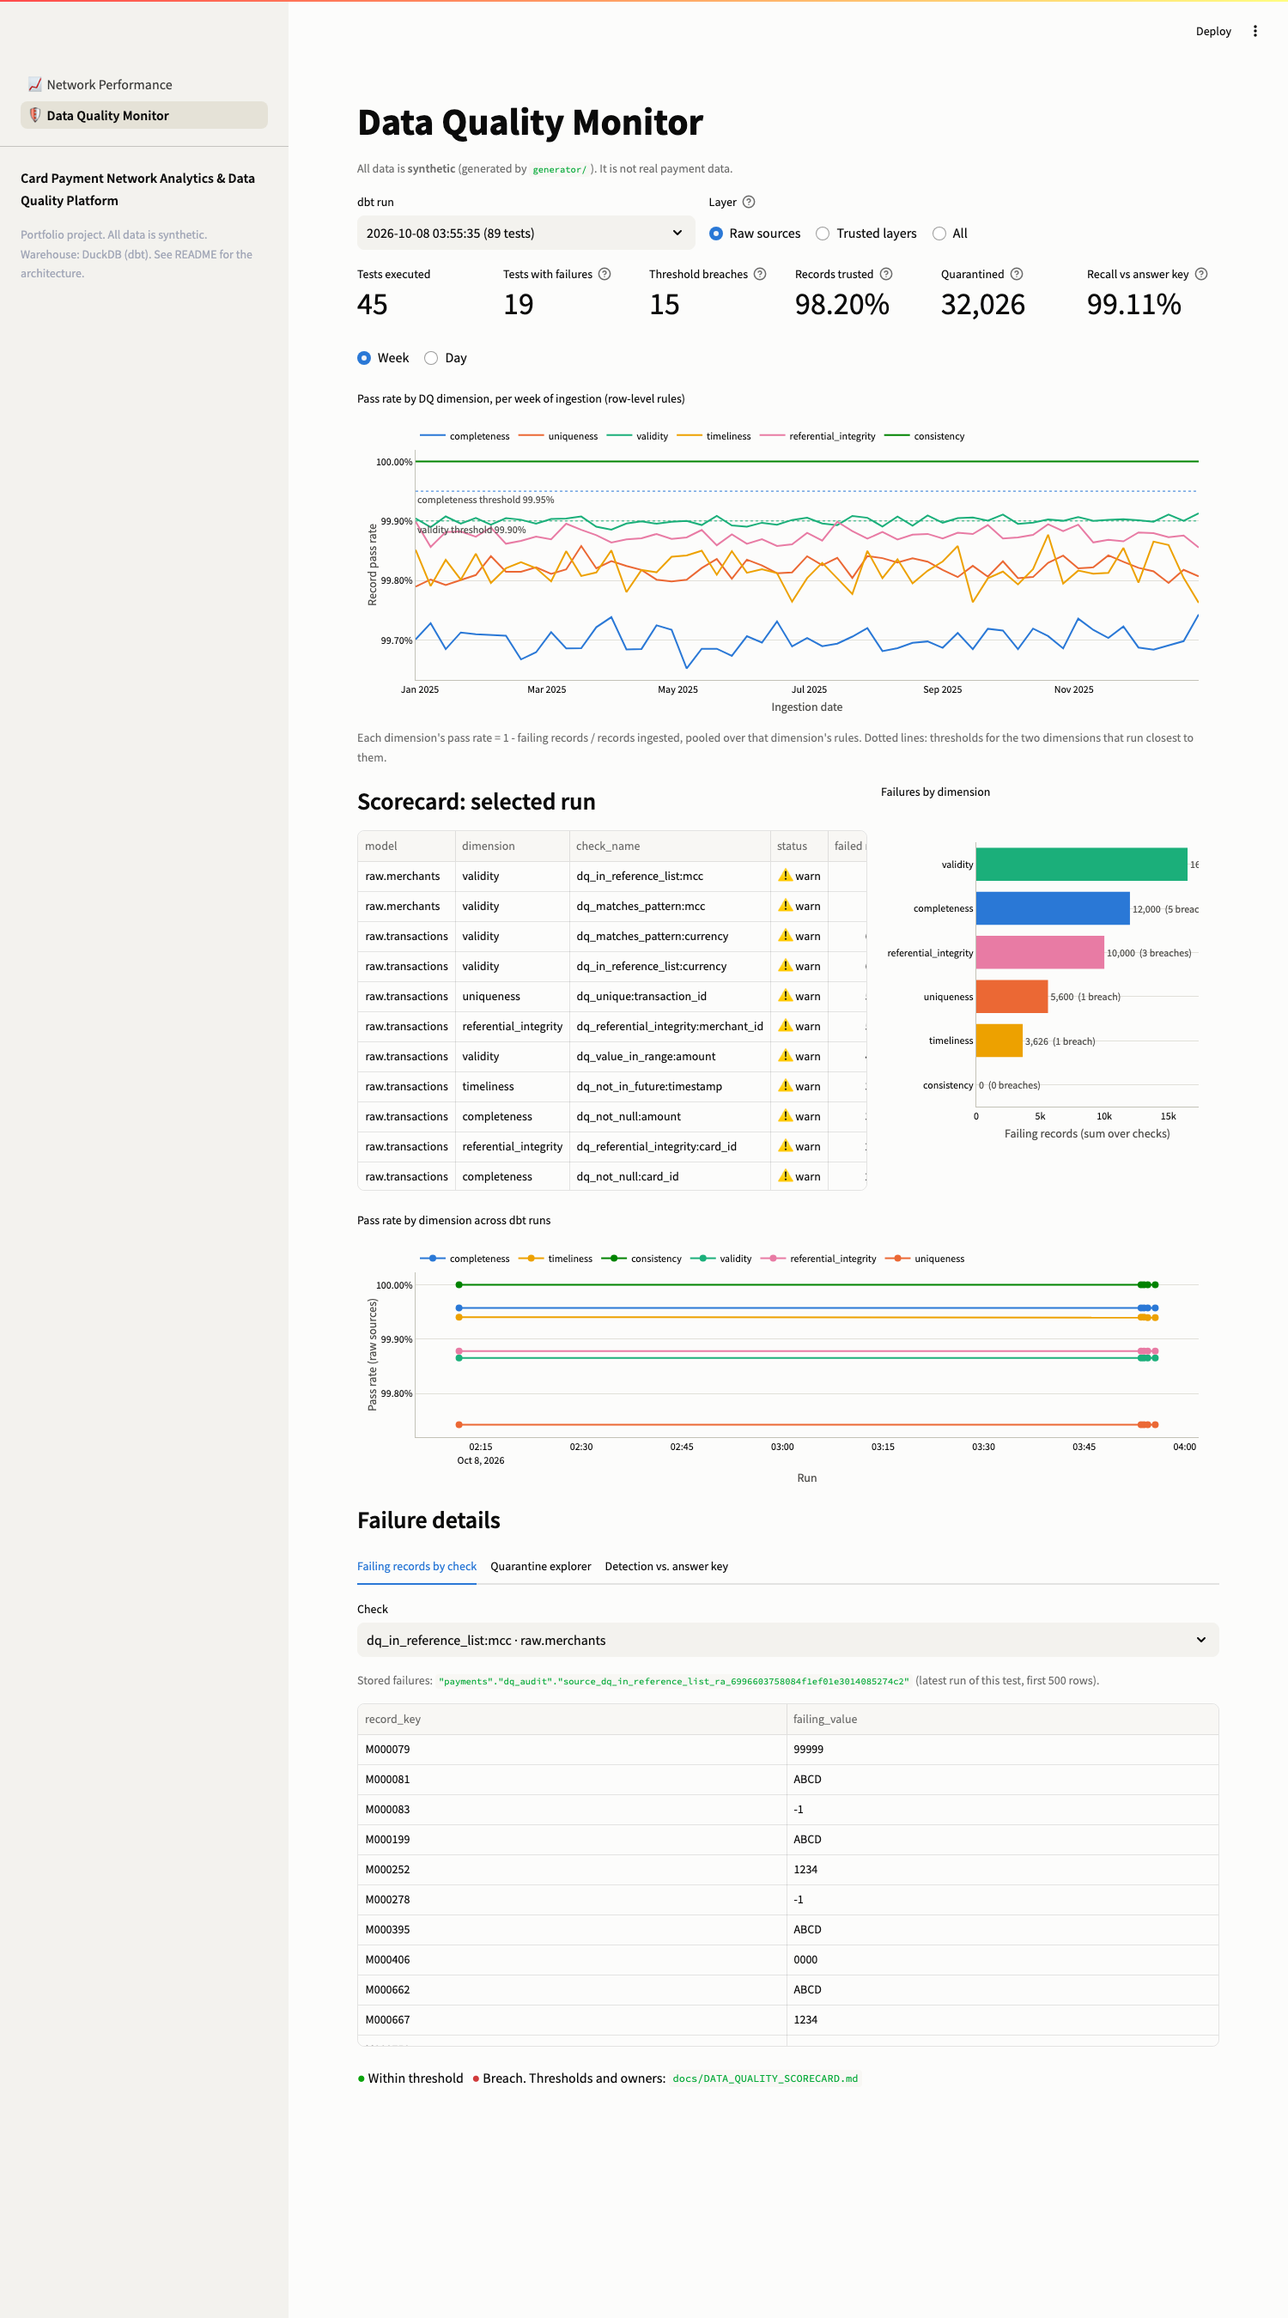
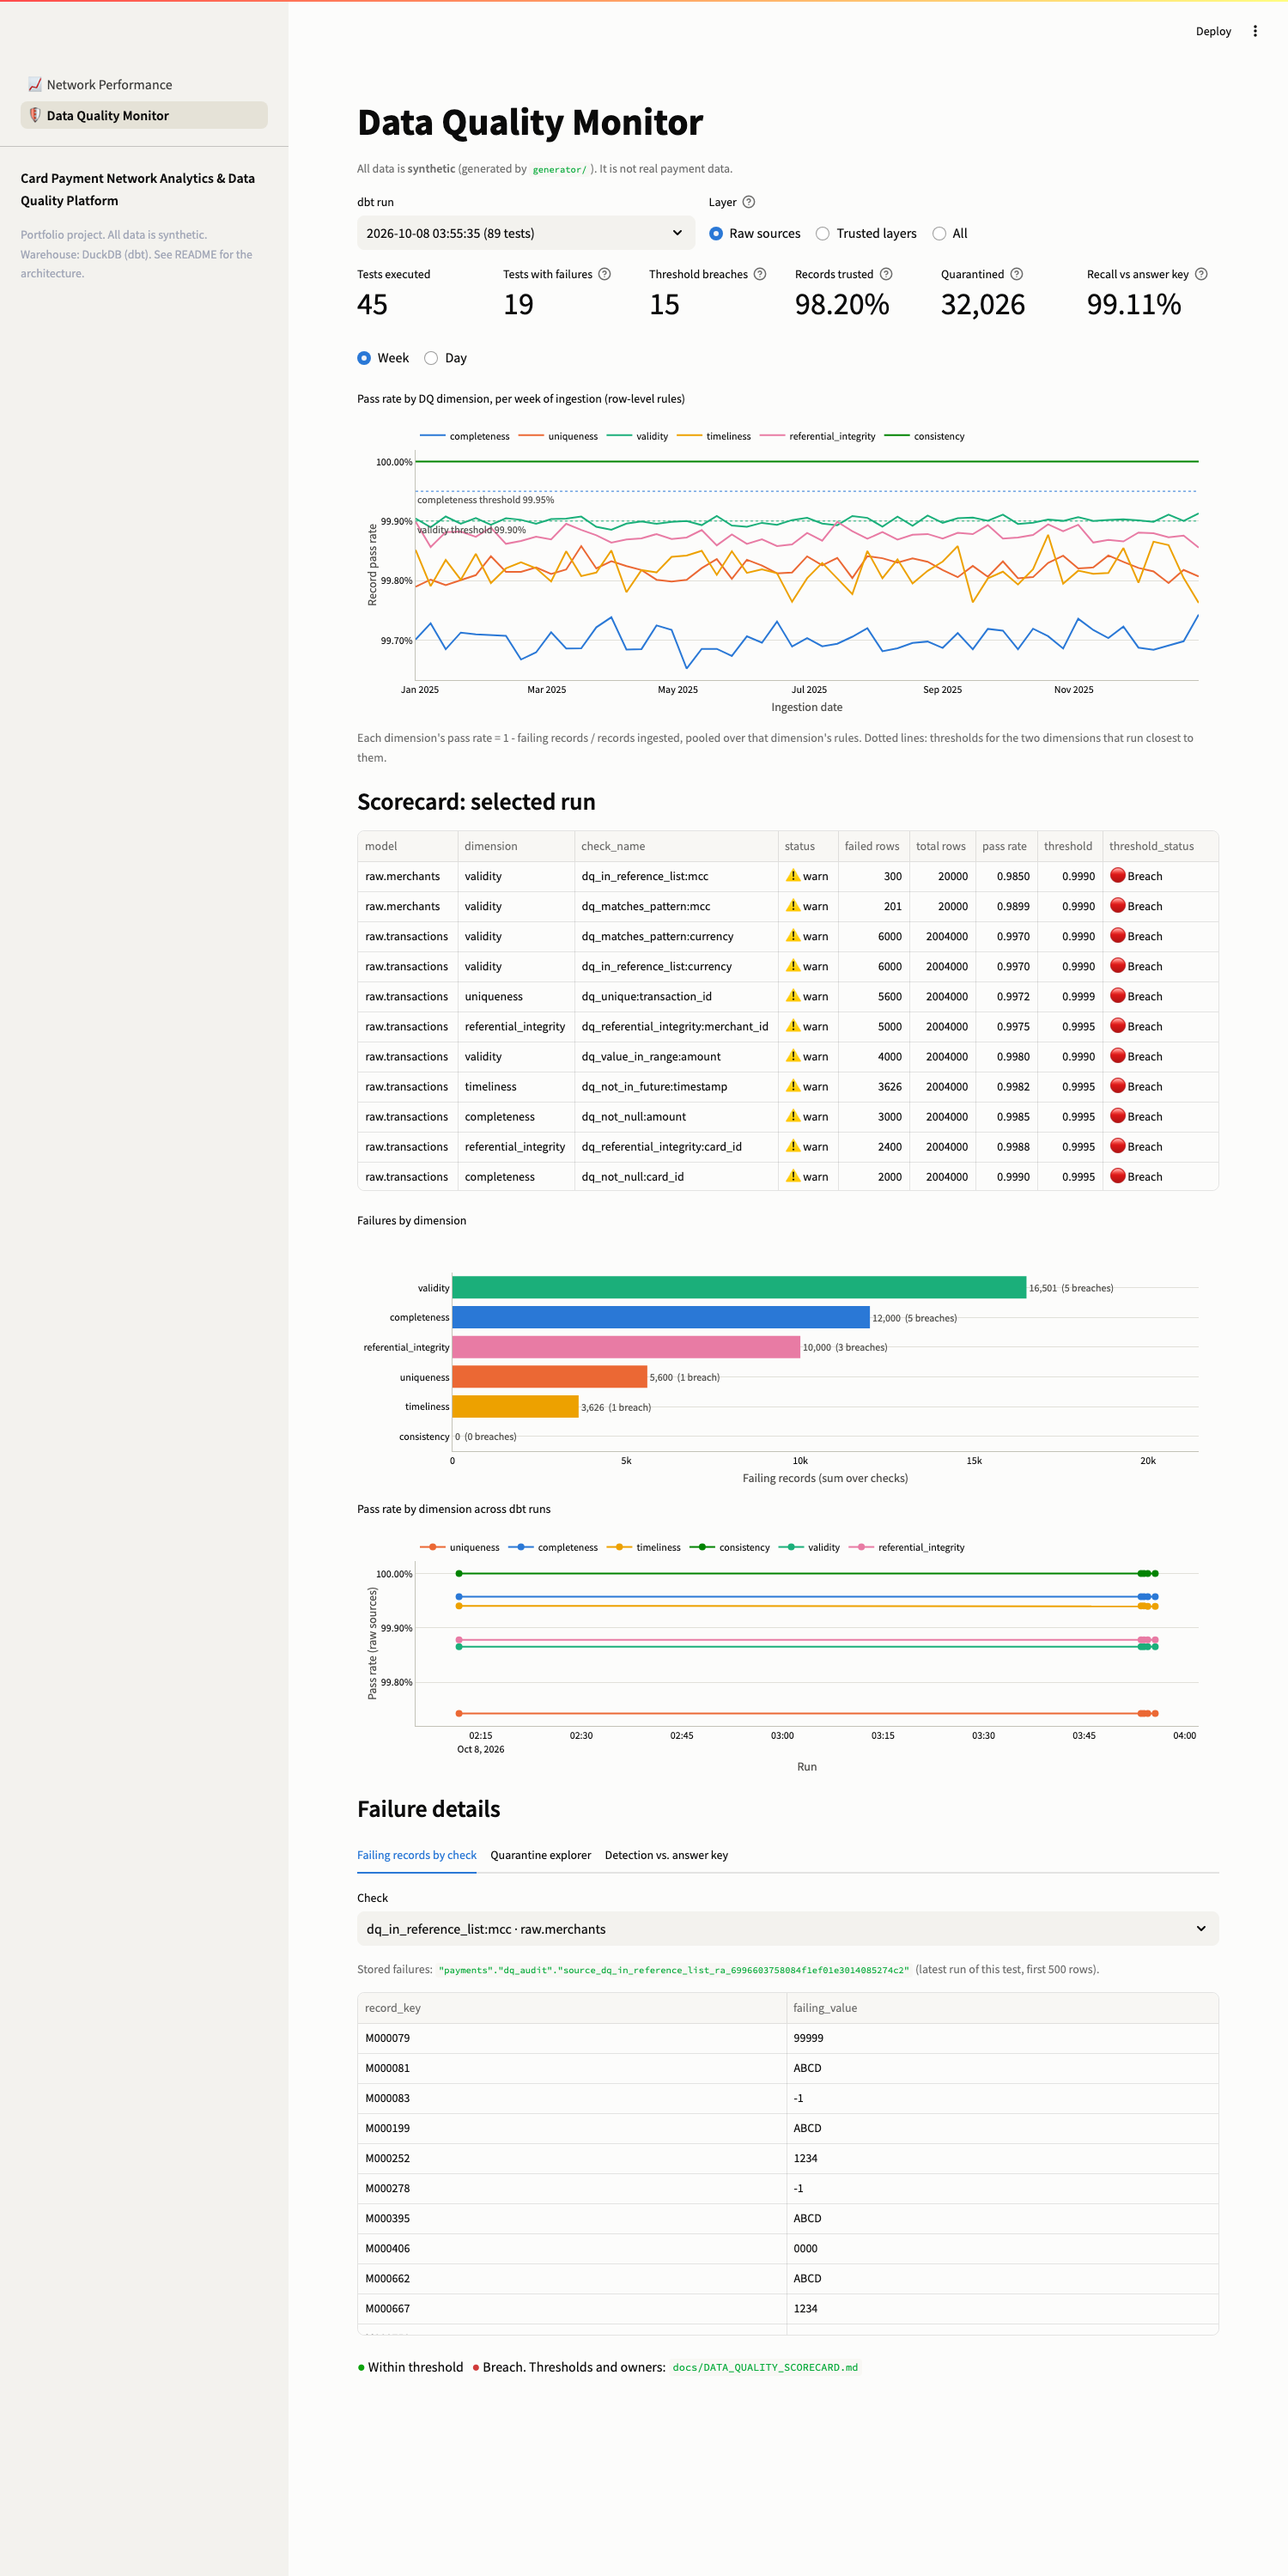
Fix run_all ordering: score DQ before dbt docs generate overwrites run_results
Found by a clean-clone run of run_all.sh. compare_answer_key.py now exits
with a clear message when no dbt test results are present. Also refreshes
dashboard screenshots.

diff --git a/dq/compare_answer_key.py b/dq/compare_answer_key.py
@@ -96,6 +96,11 @@ def main() -> int:
     out.mkdir(parents=True, exist_ok=True)
 
     tests = load_source_tests(Path(args.target))
+    if tests.empty or not (tests.layer == "raw").any():
+        print("No dbt test results found in dbt/target/run_results.json. Run `dbt build` or `dbt test` "
+              "right before this script (other dbt commands such as `docs generate` overwrite run_results).",
+              file=sys.stderr)
+        return 1
     tests["issue_type"] = [issue_for_test(t, tb, c) for t, tb, c in zip(tests.test_type, tests.table, tests.column)]
     con = duckdb.connect(args.db)
 
